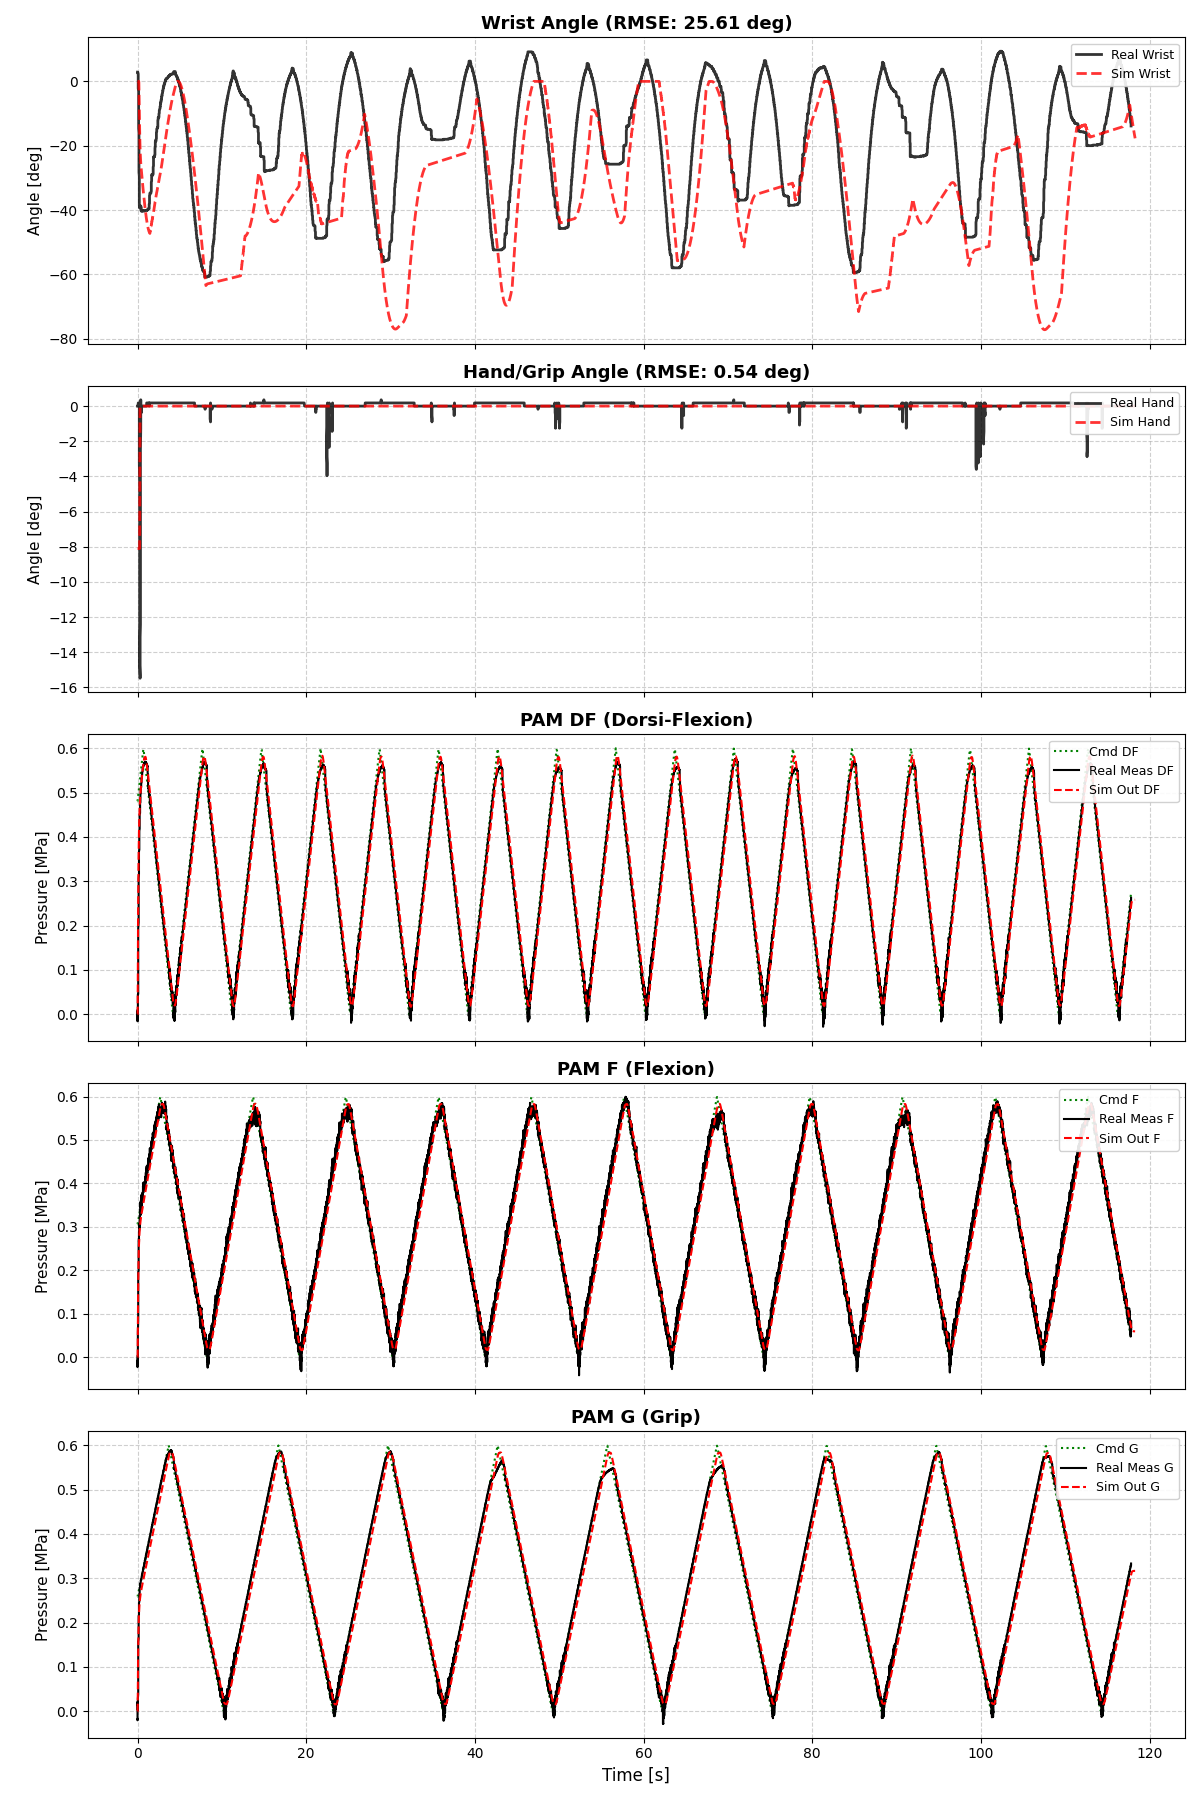
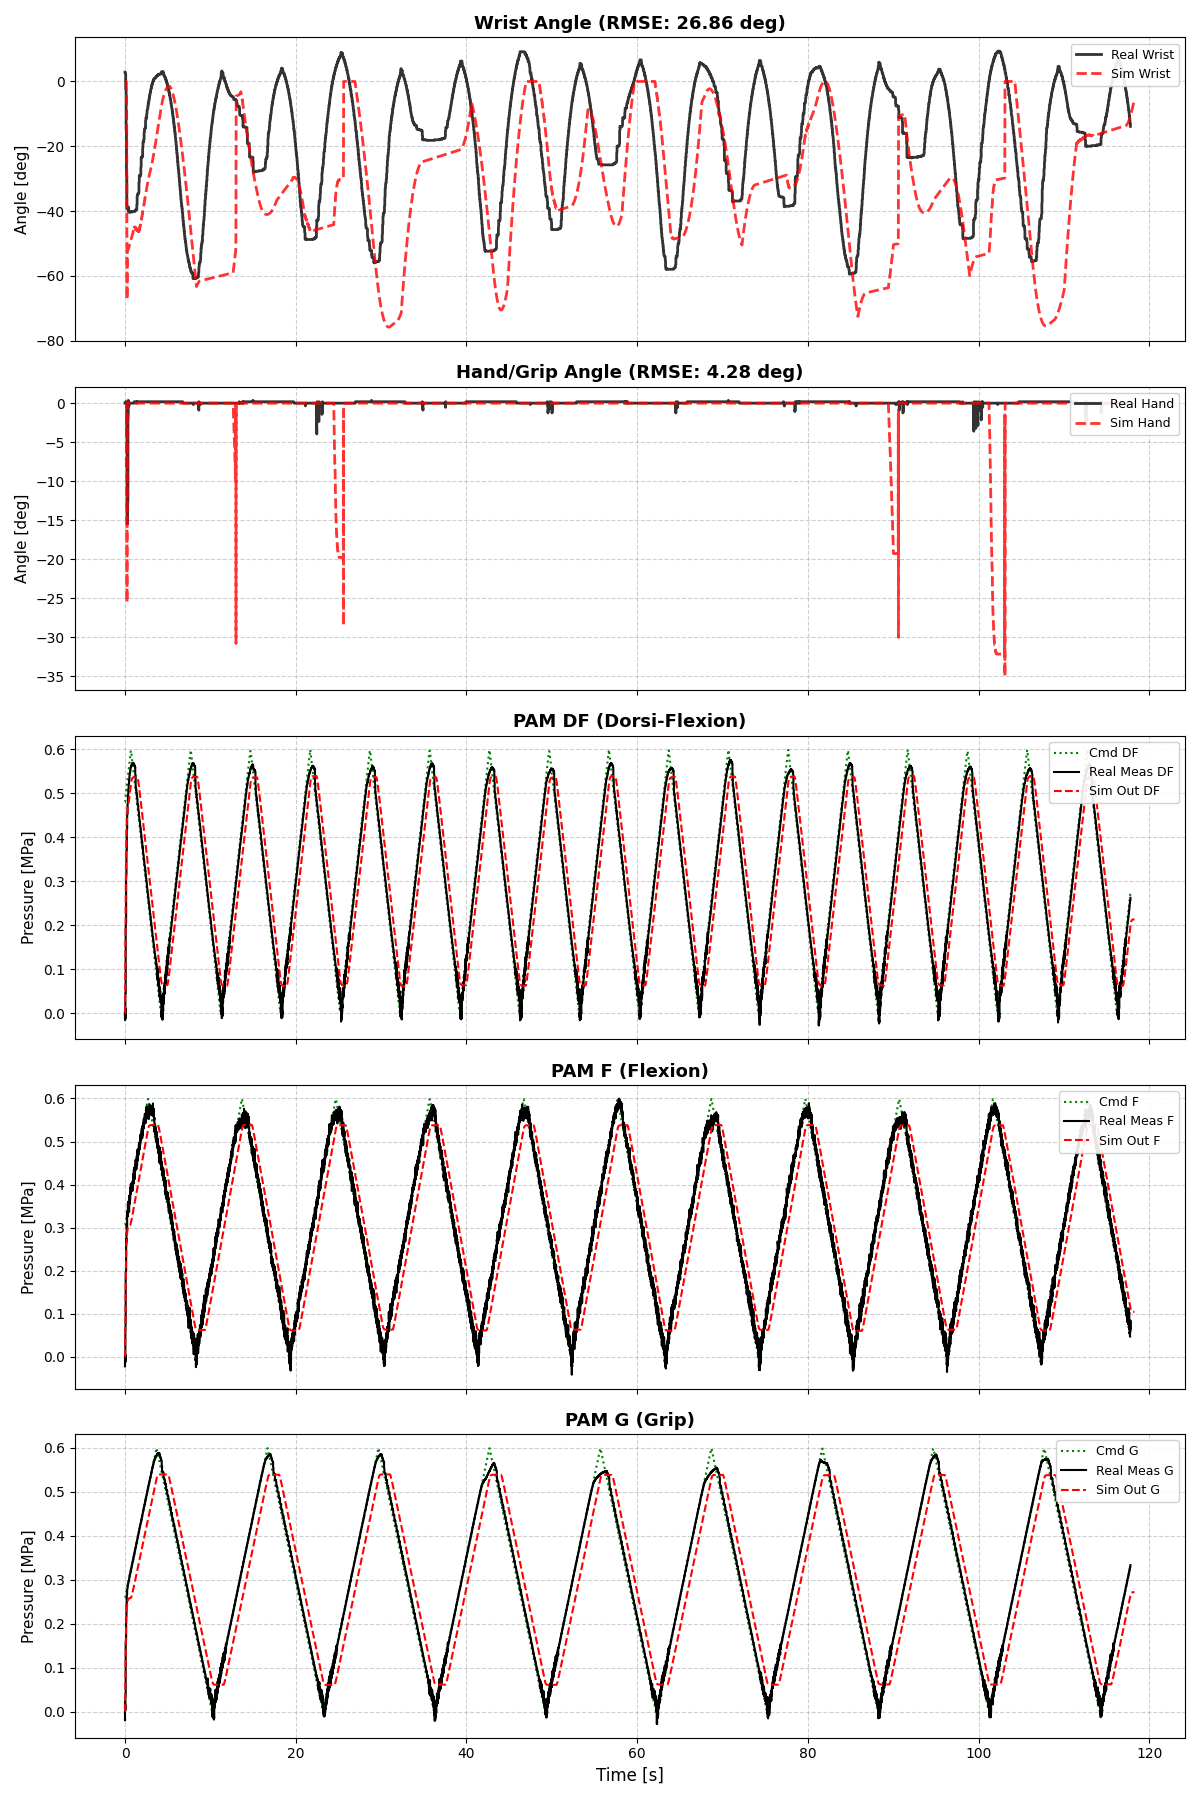
invetate hysteresis

diff --git a/scripts/verification/analyze_hysteresis_width.py b/scripts/verification/analyze_hysteresis_width.py
@@ -1,0 +1,127 @@
+import pandas as pd
+import numpy as np
+import matplotlib.pyplot as plt
+from scipy.signal import savgol_filter
+
+# CSVファイル名
+CSV_FILE = "external_data/jetson_project/01-11-hysteresis.csv"
+
+def calculate_hysteresis_parameters():
+    print(f"Loading {CSV_FILE}...")
+    try:
+        df = pd.read_csv(CSV_FILE)
+    except FileNotFoundError:
+        print(f"Error: {CSV_FILE} が見つかりません。")
+        return
+
+    # ヒステリシスモードのデータのみ抽出
+    # (ファイル内に他のモードが混ざっている場合に備えてフィルタリング)
+    if 'mode' in df.columns:
+        df = df[df['mode'].astype(str).str.contains('hysteresis')]
+    
+    # 対象とする筋肉（ここではFlexor: Fをメインに解析）
+    target_cmd = 'cmd_F'
+    target_meas = 'meas_pres_F'
+    
+    if target_cmd not in df.columns:
+        print(f"Error: {target_cmd} 列が見つかりません。")
+        return
+
+    # データ取得
+    cmd = df[target_cmd].values
+    meas = df[target_meas].values
+    time = df['timestamp'].values if 'timestamp' in df.columns else np.arange(len(cmd))
+
+    # ノイズ除去（計測値が見にくい場合用、軽めにかける）
+    # meas_smooth = savgol_filter(meas, window_length=11, polyorder=2)
+    meas_smooth = meas # 生データで見る場合はこちら
+
+    # --- 上昇（Loading）と下降（Unloading）の分離 ---
+    # 差分をとって符号で判定
+    diff_cmd = np.diff(cmd)
+    # ノイズ対策：ある程度大きな変化だけを見る
+    threshold = 0.0001
+    
+    loading_indices = np.where(diff_cmd > threshold)[0]
+    unloading_indices = np.where(diff_cmd < -threshold)[0]
+    
+    # プロット準備
+    plt.figure(figsize=(12, 6))
+    
+    # 1. Cmd vs Meas プロット (ヒステリシスループ)
+    plt.subplot(1, 2, 1)
+    plt.scatter(cmd[loading_indices], meas_smooth[loading_indices], s=1, c='r', label='Loading (Increase)')
+    plt.scatter(cmd[unloading_indices], meas_smooth[unloading_indices], s=1, c='b', label='Unloading (Decrease)')
+    plt.plot([0, 0.6], [0, 0.6], 'k--', alpha=0.5, label='Ideal y=x')
+    
+    plt.xlabel('Command Pressure (MPa)')
+    plt.ylabel('Measured Pressure (MPa)')
+    plt.title(f'Hysteresis Loop: {target_cmd} vs {target_meas}')
+    plt.legend()
+    plt.grid(True)
+
+    # --- ヒステリシス幅の算出 ---
+    # 同じCommand値におけるMeasの差分を計算したいが、
+    # サンプリング点が一致しないため、Command値を基準にビン(区間)分けして平均を取る
+    
+    bins = np.linspace(0.1, 0.5, 50) # 0.1MPa〜0.5MPaの間を50分割して解析
+    widths = []
+    valid_bins = []
+
+    for i in range(len(bins) - 1):
+        low = bins[i]
+        high = bins[i+1]
+        mid = (low + high) / 2
+        
+        # この区間にあるLoadingデータのMeas平均
+        mask_load = (cmd[loading_indices] >= low) & (cmd[loading_indices] < high)
+        if not np.any(mask_load): continue
+        val_load = np.mean(meas_smooth[loading_indices][mask_load])
+        
+        # この区間にあるUnloadingデータのMeas平均
+        mask_unload = (cmd[unloading_indices] >= low) & (cmd[unloading_indices] < high)
+        if not np.any(mask_unload): continue
+        val_unload = np.mean(meas_smooth[unloading_indices][mask_unload])
+        
+        # 幅 = 帰り - 行き
+        width = val_unload - val_load
+        
+        # 幅が負になる（計測ノイズや交差）箇所は除外してもよいが、分布を見るため残す
+        widths.append(width)
+        valid_bins.append(mid)
+
+    widths = np.array(widths)
+    
+    # 統計値
+    mean_width = np.mean(widths)
+    max_width = np.max(widths)
+    median_width = np.median(widths)
+
+    print("-" * 50)
+    print(f"【解析結果】 {target_cmd} -> {target_meas}")
+    print(f"  Mean Width (平均幅): {mean_width:.4f} MPa")
+    print(f"  Median Width (中央値): {median_width:.4f} MPa")
+    print(f"  Max Width (最大幅):   {max_width:.4f} MPa")
+    print("-" * 50)
+    print(f"★ 推奨パラメータ (hysteresis_width): {median_width:.4f} 〜 {mean_width:.4f}")
+    print("-" * 50)
+
+    # 2. Command vs Hysteresis Width
+    plt.subplot(1, 2, 2)
+    plt.plot(valid_bins, widths, 'g-o')
+    plt.axhline(mean_width, color='r', linestyle='--', label=f'Mean: {mean_width:.3f}')
+    plt.axhline(median_width, color='b', linestyle=':', label=f'Median: {median_width:.3f}')
+    
+    plt.xlabel('Command Pressure (MPa)')
+    plt.ylabel('Hysteresis Width (Diff) [MPa]')
+    plt.title('Hysteresis Width Distribution')
+    plt.legend()
+    plt.grid(True)
+    
+    plt.tight_layout()
+    plt.savefig('hysteresis_analysis_result.png')
+    print("グラフを 'hysteresis_analysis_result.png' に保存しました。")
+    plt.show()
+
+if __name__ == "__main__":
+    calculate_hysteresis_parameters()

diff --git a/scripts/verification/check_hysteresis_loop.py b/scripts/verification/check_hysteresis_loop.py
@@ -1,0 +1,64 @@
+import pandas as pd
+import matplotlib.pyplot as plt
+import os
+import numpy as np
+
+# ログファイル名 (スペースに注意して正確に指定してください)
+LOG_FILE = "verify_ModelB_Ideal_sine_120bpm.csv"
+# LOG_FILE = "simulation_log.csv" # もしファイル名が違う場合はこちら
+
+def plot_hysteresis_v2():
+    if not os.path.exists(LOG_FILE):
+        print(f"Error: '{LOG_FILE}' not found. Check the filename.")
+        return
+
+    # CSVの読み込み
+    df = pd.read_csv(LOG_FILE)
+    
+    # 最初の1秒(不安定な区間)をカット
+    df = df[df['time_s'] > 1.0]
+
+    # --- 重要: Action (-1.0 ~ 1.0) を 圧力 (0 ~ 0.6 MPa) に復元する ---
+    # action_1 が Flexion (屈曲筋) に対応します
+    P_MAX = 0.6
+    input_pressure_F = (df['action_1'] + 1.0) / 2.0 * P_MAX
+
+    plt.figure(figsize=(12, 5))
+
+    # --- プロット1: 時系列での比較 ---
+    plt.subplot(1, 2, 1)
+    plt.plot(df['time_s'], input_pressure_F, 'k--', label='Agent Input (Pure Sine)', linewidth=1.5)
+    plt.plot(df['time_s'], df['P_cmd_F'], 'r-', label='Model B Output (P_cmd)', alpha=0.6)
+    plt.plot(df['time_s'], df['P_out_F'], 'b-', label='Realized Pressure (P_out)', alpha=0.6)
+    
+    plt.xlabel('Time [s]')
+    plt.ylabel('Pressure [MPa]')
+    plt.title('Time Series: Input vs Hysteresis Cmd')
+    plt.legend()
+    plt.grid(True)
+
+    # --- プロット2: ヒステリシスループ (Input vs P_out) ---
+    plt.subplot(1, 2, 2)
+    
+    # X軸を「加工前のActionから計算した圧力」にするのが正解！
+    plt.plot(input_pressure_F, df['P_out_F'], 'g-', alpha=0.6, label='Hysteresis Loop')
+    
+    # 理想線 (y=x)
+    min_val = 0.0
+    max_val = 0.6
+    plt.plot([min_val, max_val], [min_val, max_val], 'k:', label='Ideal (No Hysteresis)')
+    
+    plt.xlabel('Agent Input Pressure (Pure Sine)')
+    plt.ylabel('Realized Pressure (P_out)')
+    plt.title('True Hysteresis Loop Check')
+    plt.legend()
+    plt.grid(True)
+
+    plt.tight_layout()
+    save_path = 'hysteresis_check_v2.png'
+    plt.savefig(save_path)
+    print(f"Saved plot to {save_path}")
+    plt.show()
+
+if __name__ == "__main__":
+    plot_hysteresis_v2()

diff --git a/scripts/verification/check_modelA_modelB_hysteresis.py b/scripts/verification/check_modelA_modelB_hysteresis.py
@@ -1,0 +1,52 @@
+import pandas as pd
+import matplotlib.pyplot as plt
+
+# ファイル名 (スペースが入らないように注意)
+file_a = "verify_ModelA_Ideal_REPLAY_01-11-hysteresis.csv"
+file_b = "verify_ModelB_Ideal_REPLAY_01-11-hysteresis.csv"
+
+def check_difference():
+    # データの読み込み
+    df_a = pd.read_csv(file_a)
+    df_b = pd.read_csv(file_b)
+
+    # タイムスタンプが一致しているか確認しつつ、データ長を合わせる
+    min_len = min(len(df_a), len(df_b))
+    df_a = df_a.iloc[:min_len]
+    df_b = df_b.iloc[:min_len]
+
+    # 時間軸
+    time = df_a['time_s']
+
+    # 角度の差分を計算 (Model B - Model A)
+    diff_wrist = df_b['q_wrist_deg'] - df_a['q_wrist_deg']
+    
+    # プロット
+    plt.figure(figsize=(10, 6))
+    
+    plt.subplot(2, 1, 1)
+    plt.plot(time, df_a['q_wrist_deg'], 'b--', label='Model A (No Hysteresis)', alpha=0.7)
+    plt.plot(time, df_b['q_wrist_deg'], 'r-', label='Model B (Hysteresis)', alpha=0.7)
+    plt.title("Joint Angle Comparison")
+    plt.ylabel("Wrist Angle [deg]")
+    plt.legend()
+    plt.grid()
+
+    plt.subplot(2, 1, 2)
+    plt.plot(time, diff_wrist, 'g-')
+    plt.title("Difference (Model B - Model A)")
+    plt.ylabel("Delta Angle [deg]")
+    plt.xlabel("Time [s]")
+    plt.grid()
+    
+    # 差が0なら警告
+    if diff_wrist.abs().max() < 0.001:
+        print("警告: 動きが完全に一致しています。P_outが適用されていない可能性があります。")
+    else:
+        print(f"確認: 最大 {diff_wrist.abs().max():.2f} 度のズレが生じています。反映されています！")
+
+    plt.tight_layout()
+    plt.show()
+
+if __name__ == "__main__":
+    check_difference()

diff --git a/source/porcaro_rl/porcaro_rl/tasks/direct/porcaro_rlv1/cfg/assets.py b/source/porcaro_rl/porcaro_rl/tasks/direct/porcaro_rlv1/cfg/assets.py
@@ -91,14 +91,14 @@ ROBOT_CFG = ArticulationCfg(
             stiffness=0.0,
             damping=0.1,
             effort_limit_sim=500.0,
-            friction=2.5,
+            friction=2.0,
         ),
         "grip": ImplicitActuatorCfg(
             joint_names_expr=[".*Hand_link_Grip_joint"],
             stiffness=0.0,
             damping=0.0,
             effort_limit_sim=500.0,
-            friction=1,
+            friction=0.5,
         ),
     },
 )

diff --git a/source/porcaro_rl/porcaro_rl/tasks/direct/porcaro_rlv1/porcaro_rl_env_cfg.py b/source/porcaro_rl/porcaro_rl/tasks/direct/porcaro_rlv1/porcaro_rl_env_cfg.py
@@ -182,7 +182,7 @@ class PorcaroRLEnvCfg_ModelB(PorcaroRLEnvCfg):
         
         # 分析に基づくヒステリシス設定
         self.pam_hysteresis_cfg = PamHysteresisModelCfg(
-            hysteresis_width=0.05, # Unloading時に18%の出力低下
+            hysteresis_width=0.2, # Unloading時に18%の出力低下
             curve_shape_param=2.0  # (現在の実装では未使用)
         )
         
